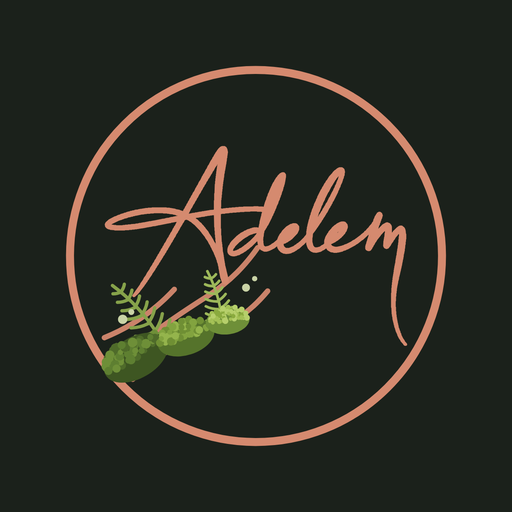
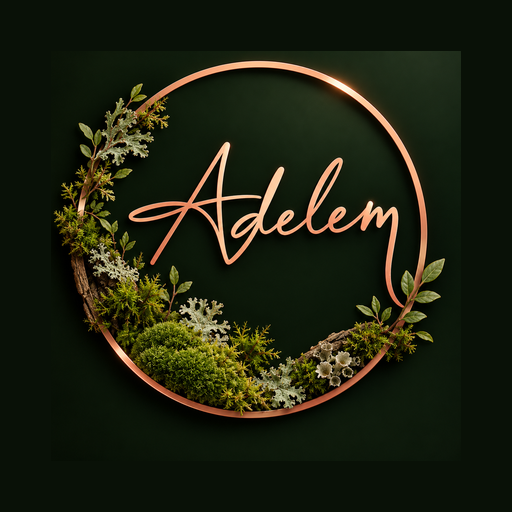
Icône du site : badge Adelem végétal fourni par Gwen
Claude-Session: https://claude.ai/code/session_012XudYv1MjAe8fCTzdk3UUm

Changed region(s): [[0.0938, 0.0938, 0.875, 0.875]]

diff --git a/docs/decisions.md b/docs/decisions.md
@@ -270,4 +270,4 @@
 - Image de partage par défaut (public/partage.jpg, 1200 × 630) : le photomontage de l'accueil sous la signature, pour toutes les pages sans image propre (accueil, galerie, atelier…).
 - Fiches d'œuvres : aperçu 1200 × 630 dédié, l'œuvre entière sur le fond vert du site (les PNG détourés ne sortent plus noirs ou blancs).
 - Accueil : données « WebSite » (nom Adelem) pour que Google affiche le nom du site.
-- Icône du site (choix de Gwen, 2026-10-27) : le badge rond Adelem d’origine, en cuivre sur le vert du site, traits épaissis, galets remplacés par de la mousse, une fougère et du lichen (public/logo/adelem-badge-vegetal.svg). Essais écartés : le « A » de la signature seul, et des icônes générées dans Canva (jugées « plus Adelem »).
+- Icône du site (choix de Gwen, 2026-10-27) : image fournie par Gwen — badge « Adelem » en cuivre sur vert, cercle garni de mousse, lichen, écorce et feuillage (public/logo/adelem-badge-vegetal-photo.png), déclinée en 16 à 512 px. Essais écartés : « A » de la signature seul, icônes Canva, badge vectoriel avec mousse dessinée.
